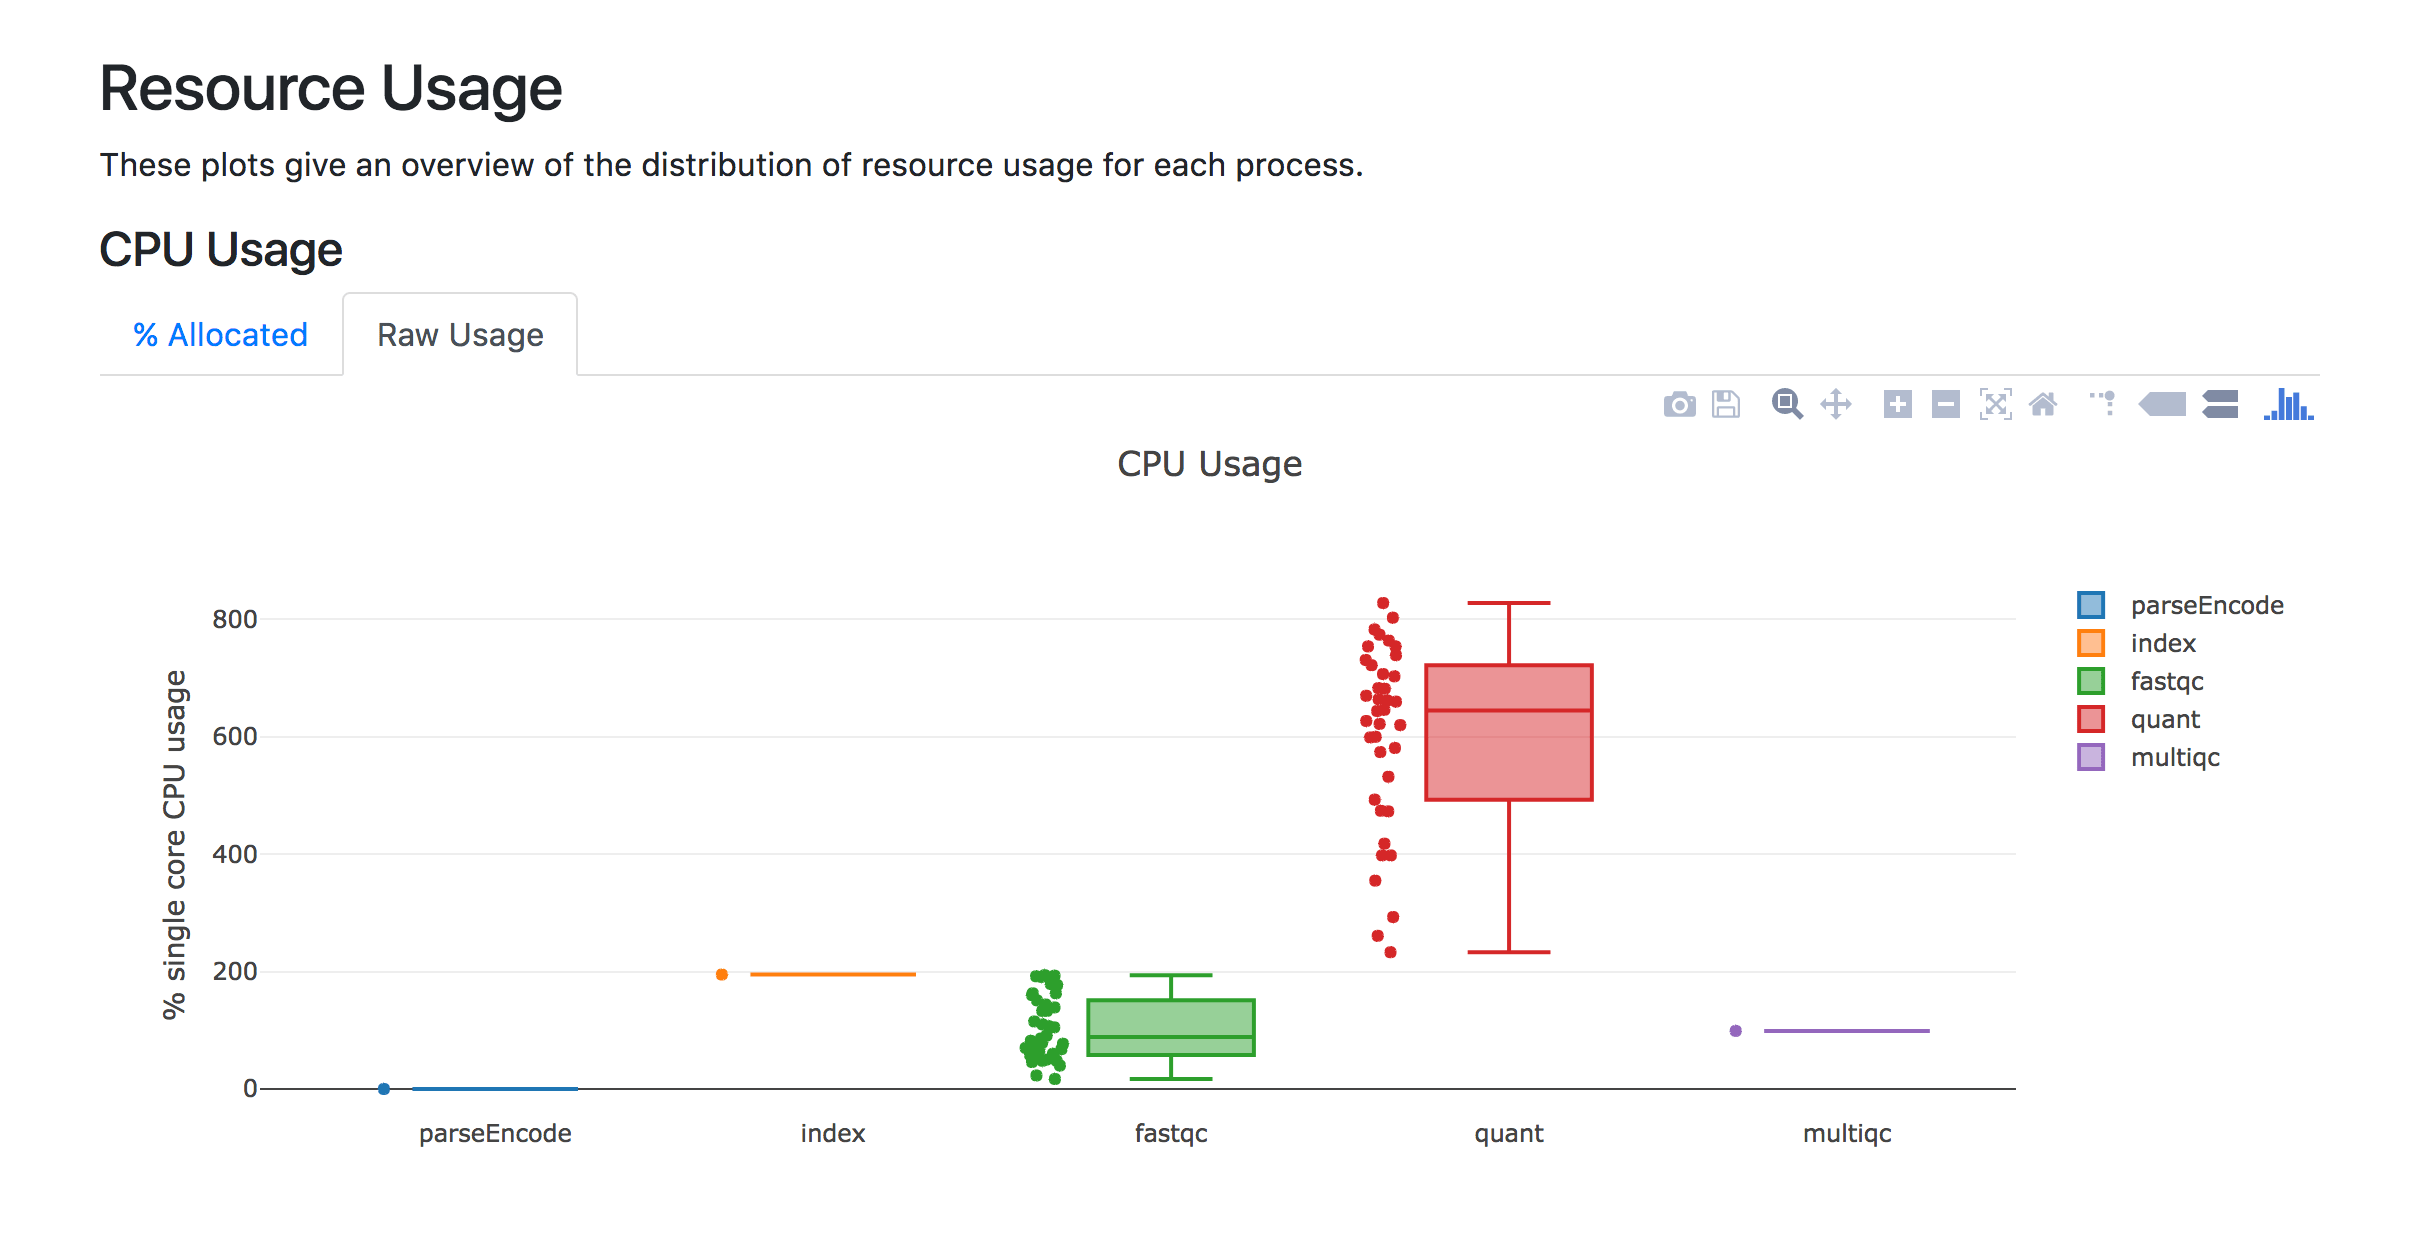
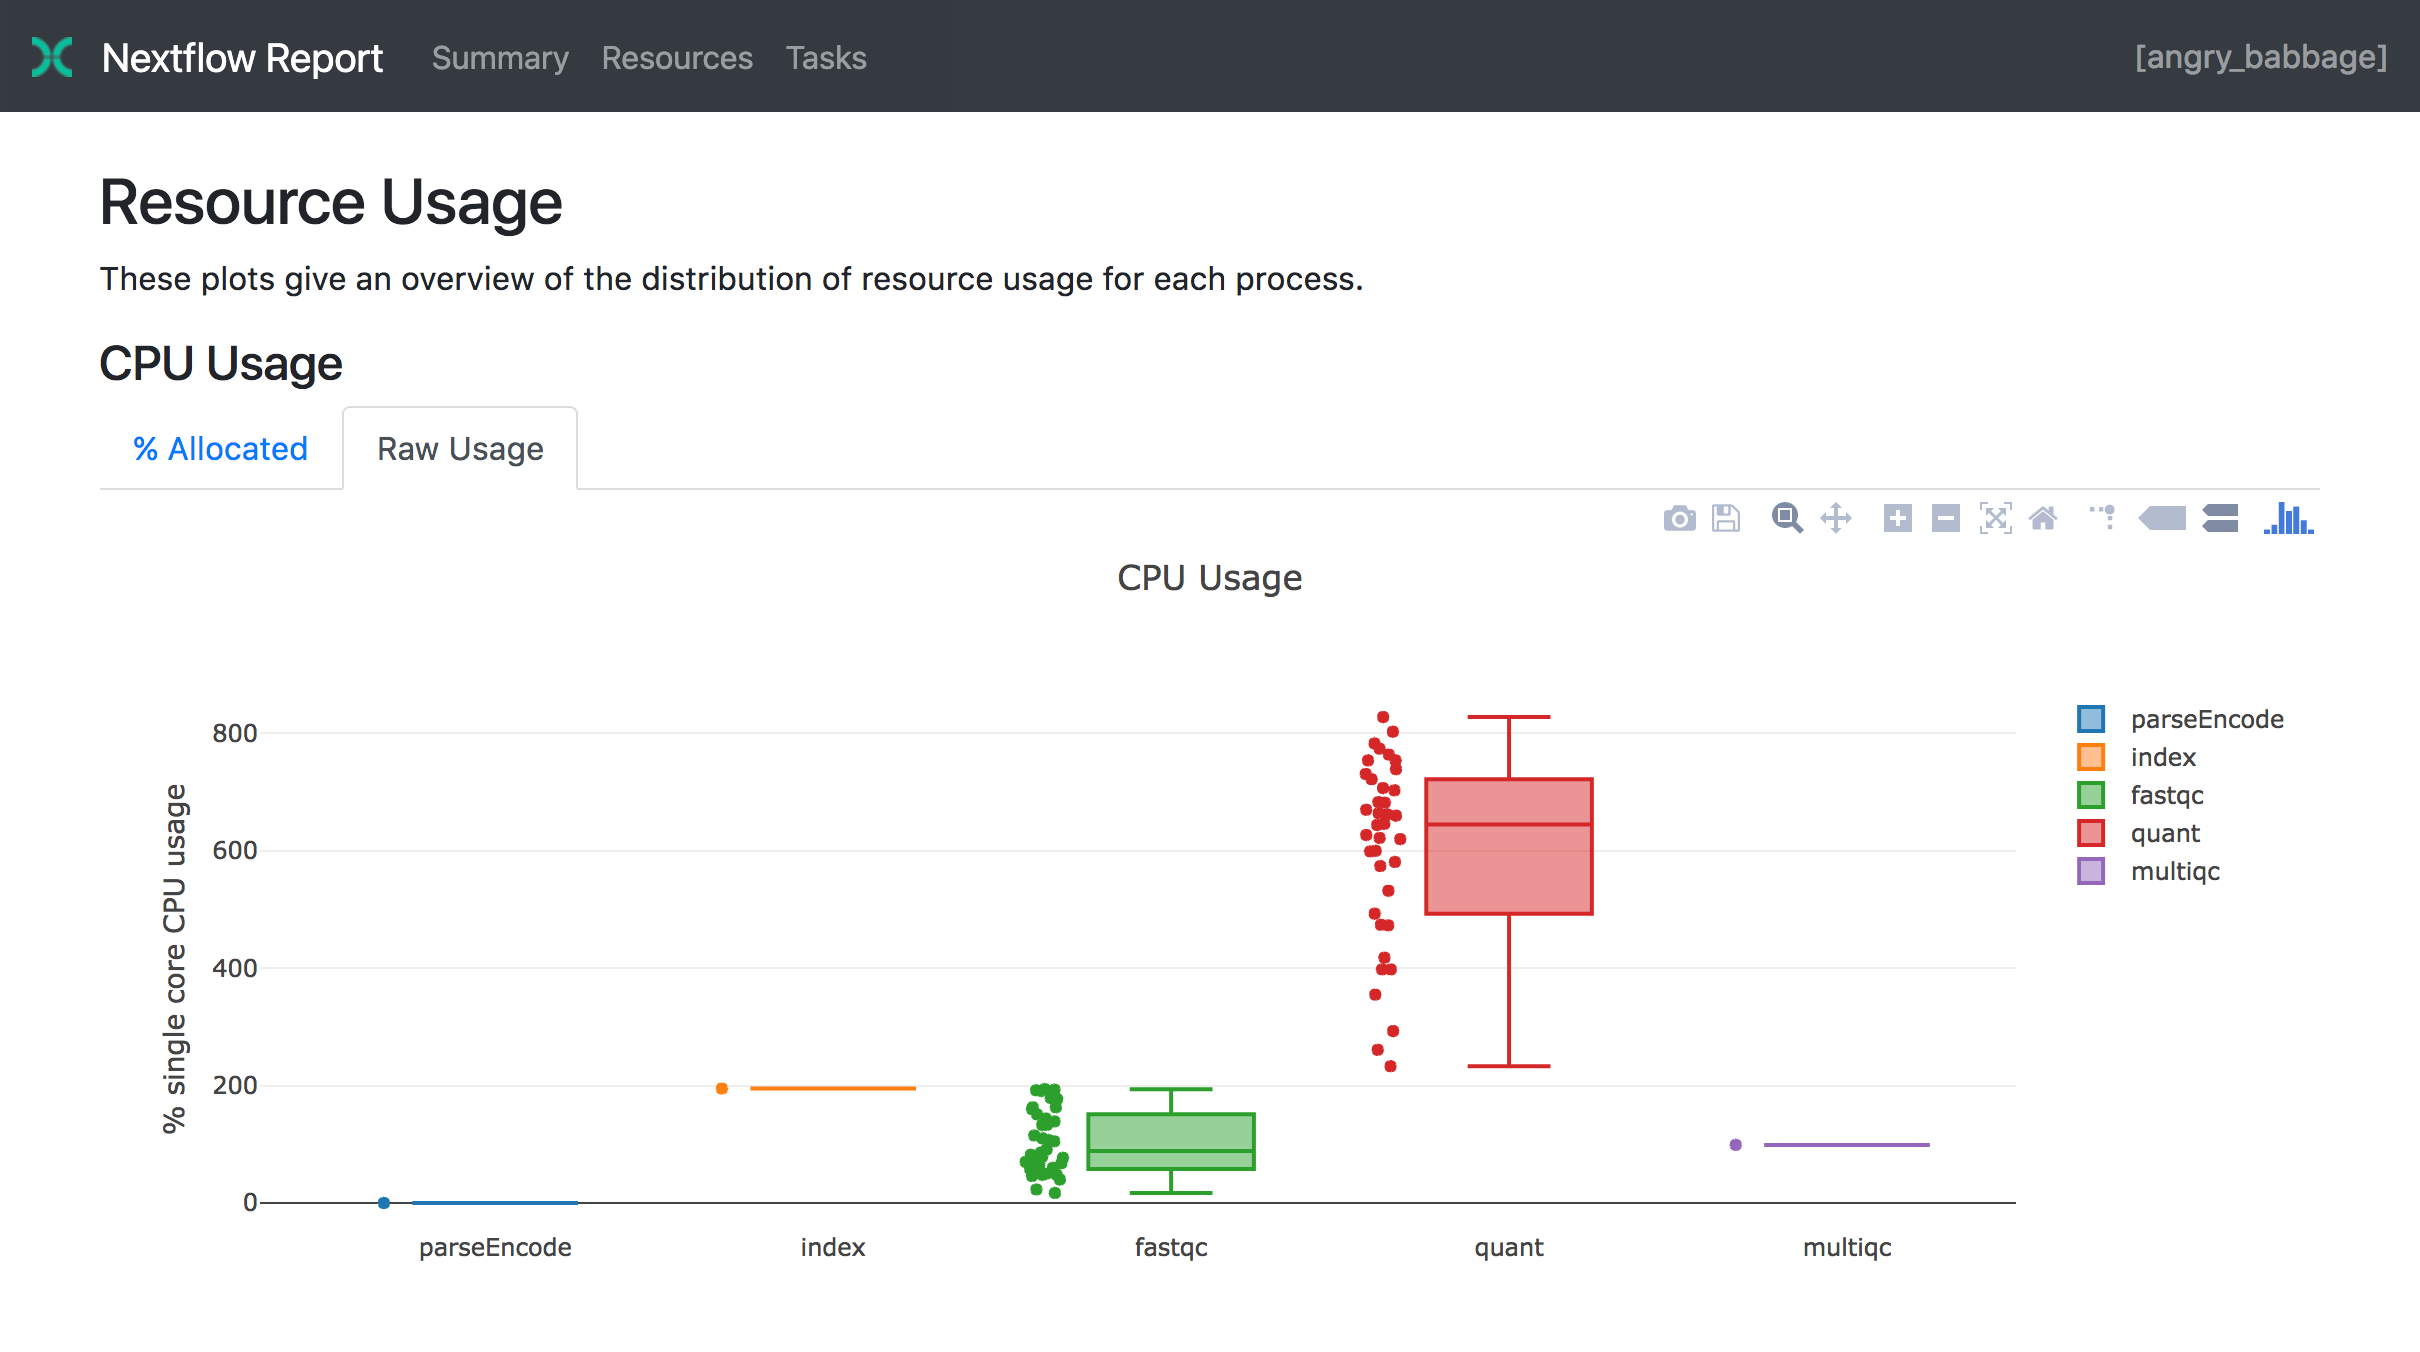
Add image with no header

diff --git a/docs/metrics.md b/docs/metrics.md
@@ -8,7 +8,7 @@ This tutorial explains how resource usage metrics are computed from execution re
 
 CPU Usage plots report how CPU resources are used by each process.
 
-```{image} _static/report-resource-cpu.png
+```{image} _static/report-resource-cpu-noheader.png
 ```
 
 **Raw Usage** tabs are expected to show 100% core usage if processes perform one task of pure computation. If tasks are distributed over, 2, 3, or 4 CPUs, the raw usage will be 200%, 300%, or 400%, respectively. **% Allocated** tabs rescale raw usage values relative to the number of CPUs that are set with the `cpus` directive. If the `cpus` directive is not set, CPUs are set to `1` and **% Allocated** tabs will show the same values **Raw Usage** tabs.
